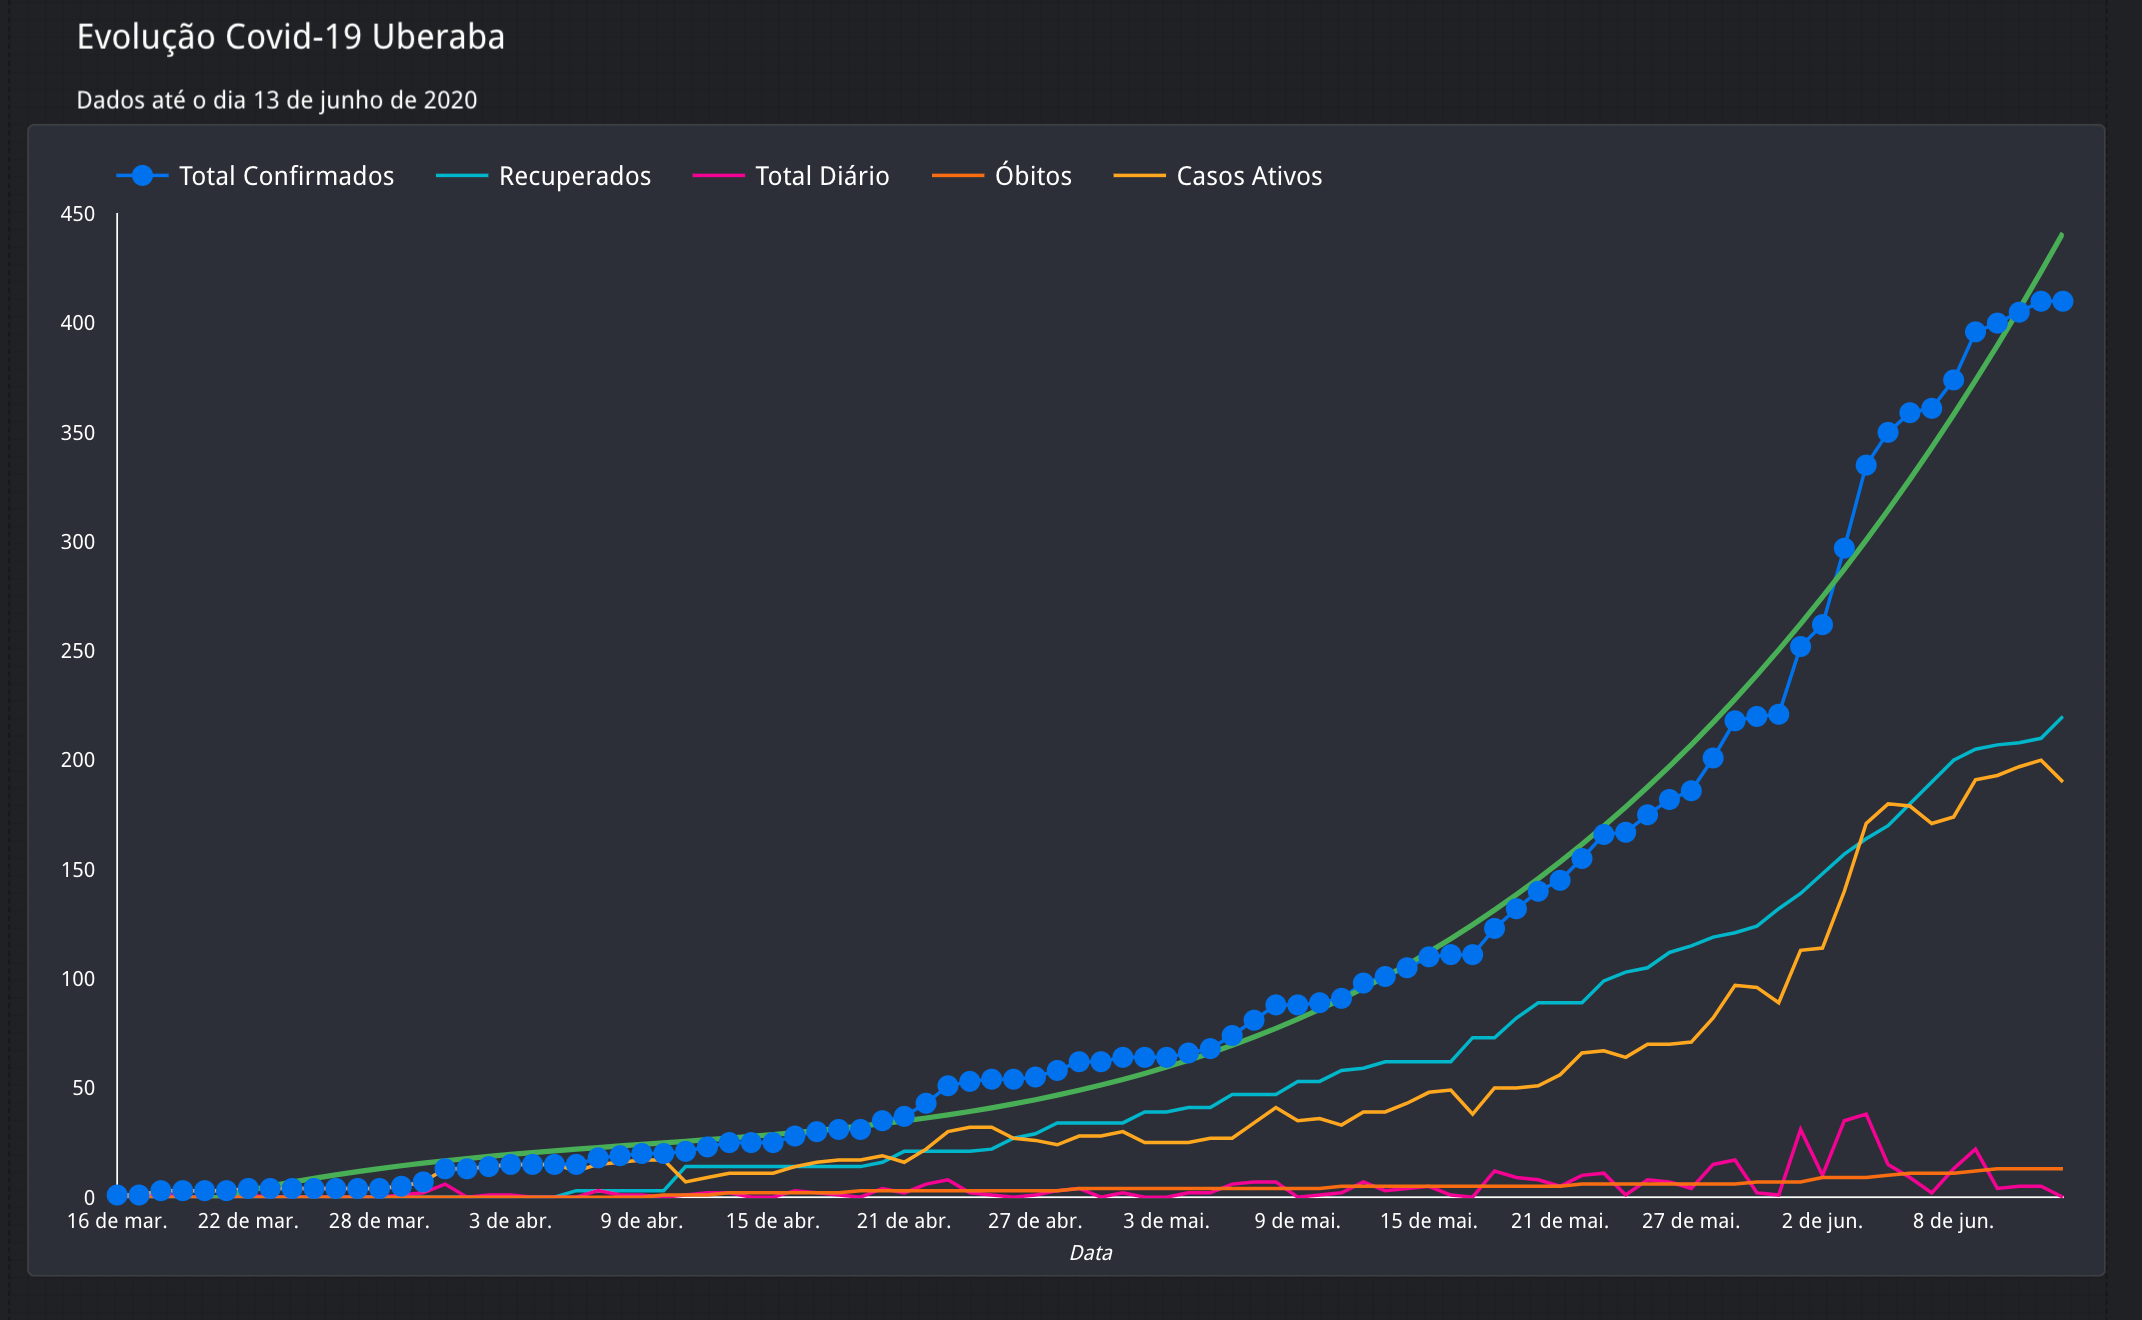
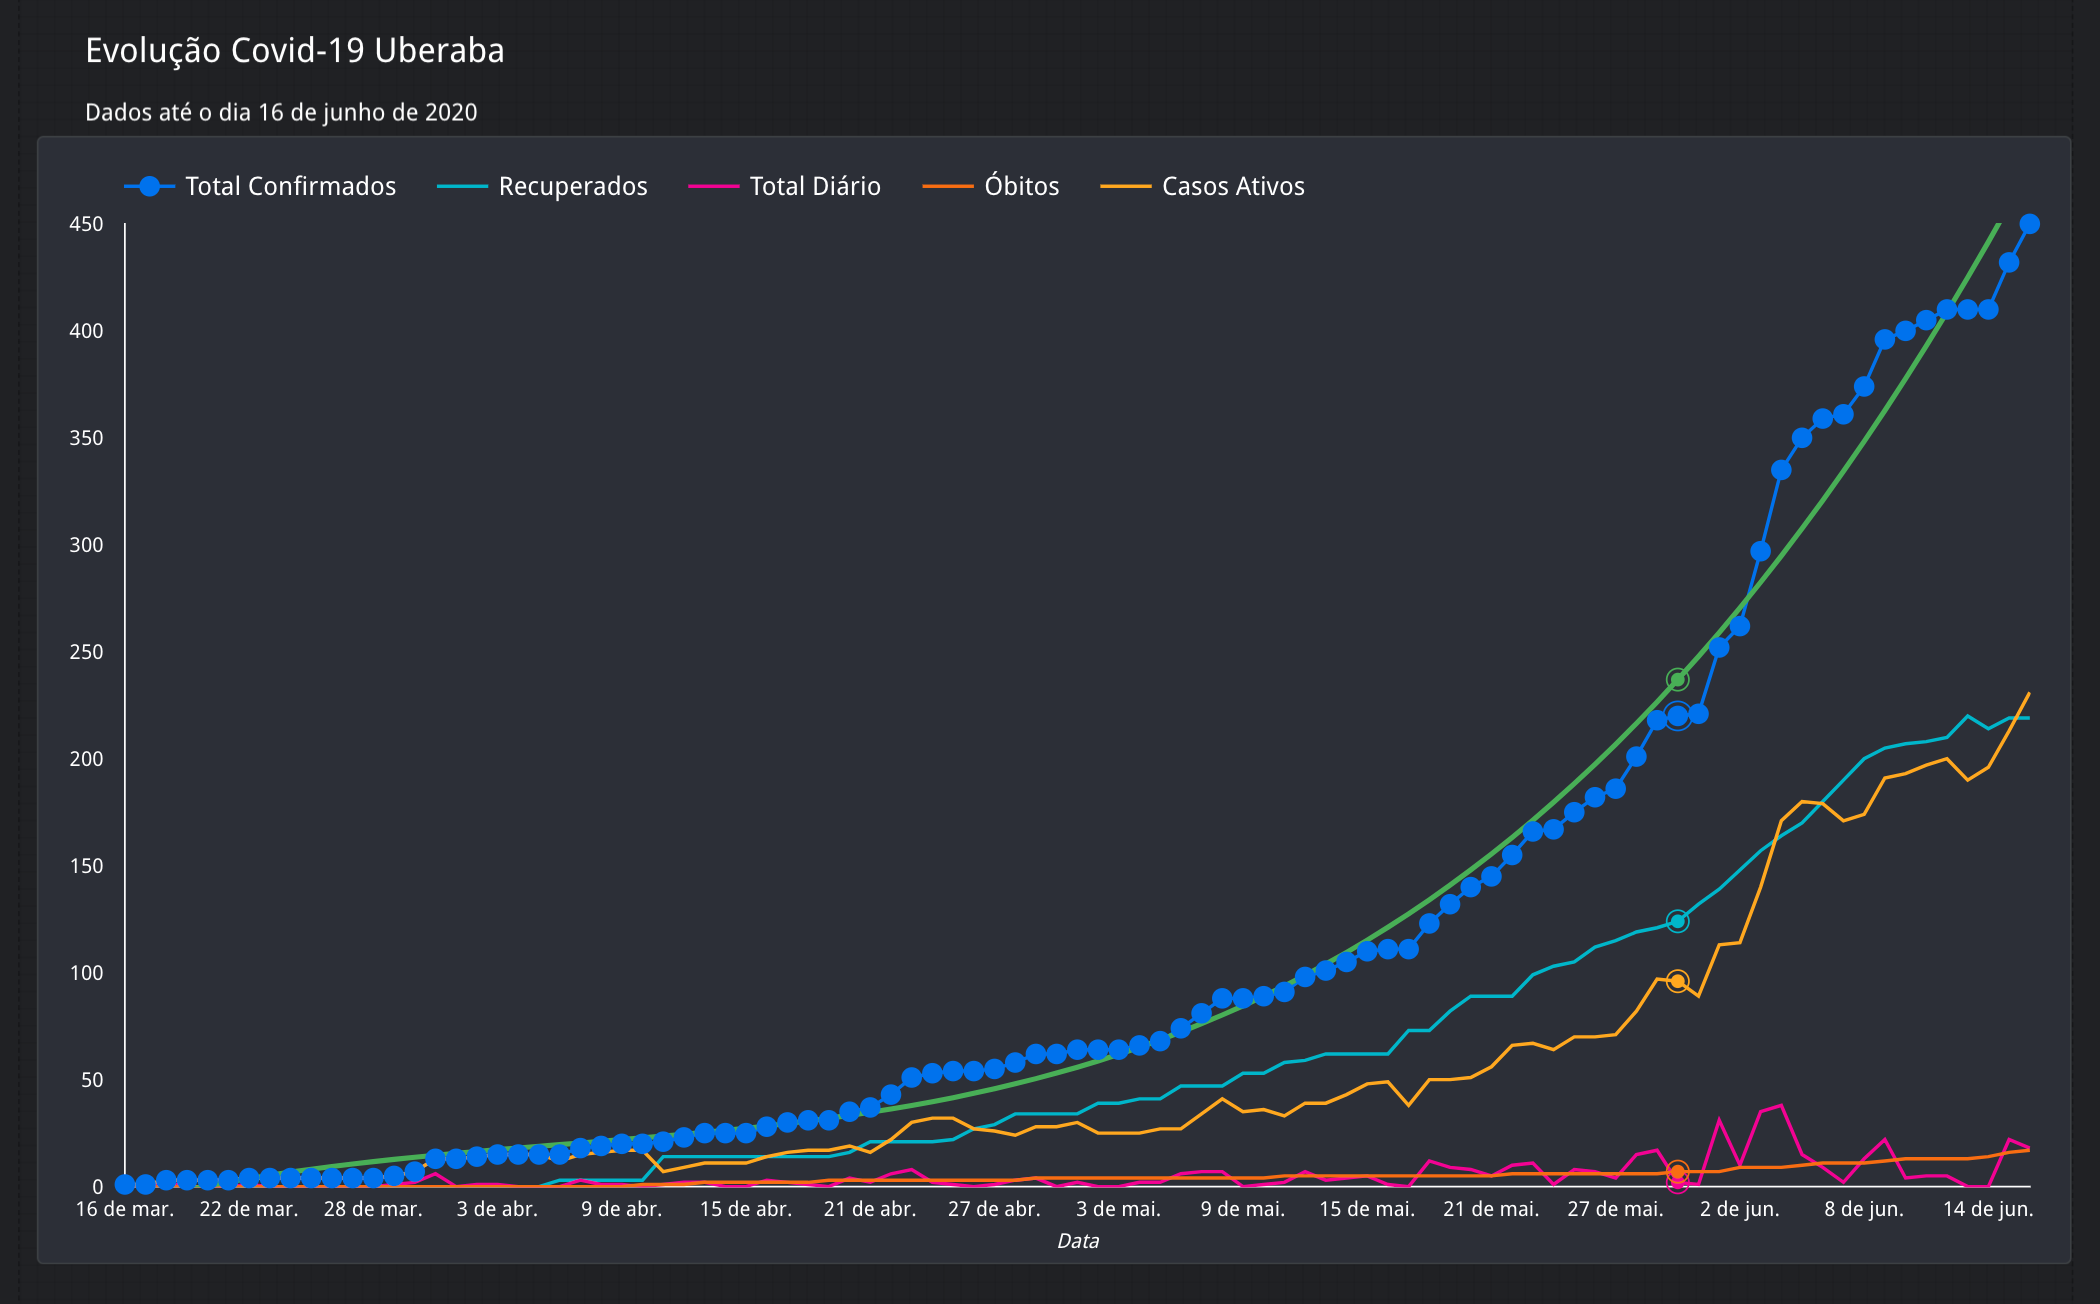
Atualizacao Graficos

diff --git a/index.html b/index.html
@@ -127,7 +127,7 @@
               <!-- CARD.TITLE.TEXT -->
               <h2 class="display">Casos de Uberaba</h2>
             <!--/a-->
-            <p class="card-text">Dados e projeções para o município de Uberaba, informações até o dia 13 de junho de 2020. Dados Coletados com a própria Secretaria Municipal de Saúde de Uberaba.</p>
+            <p class="card-text">Dados e projeções para o município de Uberaba, informações até o dia 16 de junho de 2020. Informações coletadas com a própria Secretaria Municipal de Saúde de Uberaba.</p>
             <!-- CARD.TITLE.DESCRIPTION -->
           </div>
         </div>
@@ -139,17 +139,14 @@
 
         <p class="text-justify mt-3">
             <ul>
-            <li>No dia de hoje (13/06/2020), acumulamos 410 casos notificados.</li>
-            <li>Projeção para dia 18 de Junho: entre 345 e 540 casos notificados.</li>
+            <li>No dia de hoje (16/06/2020), acumulamos 450 casos notificados.</li>
+            <li>Projeção para dia 21 de Junho é de até 622 casos notificados.</li>
+            <li>Pontos pretos: número de casos confirmados a cada dia.</li>
+            <li>Pontos laranjas: a previsão para os próximos 5 dias.</li>
+            <li>Cinza: intervalo de confiança dessa previsão.</li>
             </ul>
         </p>
-        <p class="text-justify mt-3">
-          <ul>
-          <li>Pontos pretos: número de casos confirmados a cada dia.</li>
-          <li>Pontos laranjas: a previsão para os próximos 5 dias.</li>
-          <li>Cinza: intervalo de confiança dessa previsão.</li>
-          </ul>
-        </p>
+
 
         <!-- CARD.IMAGE -->
         <!--a href="./municipios.html"-->
